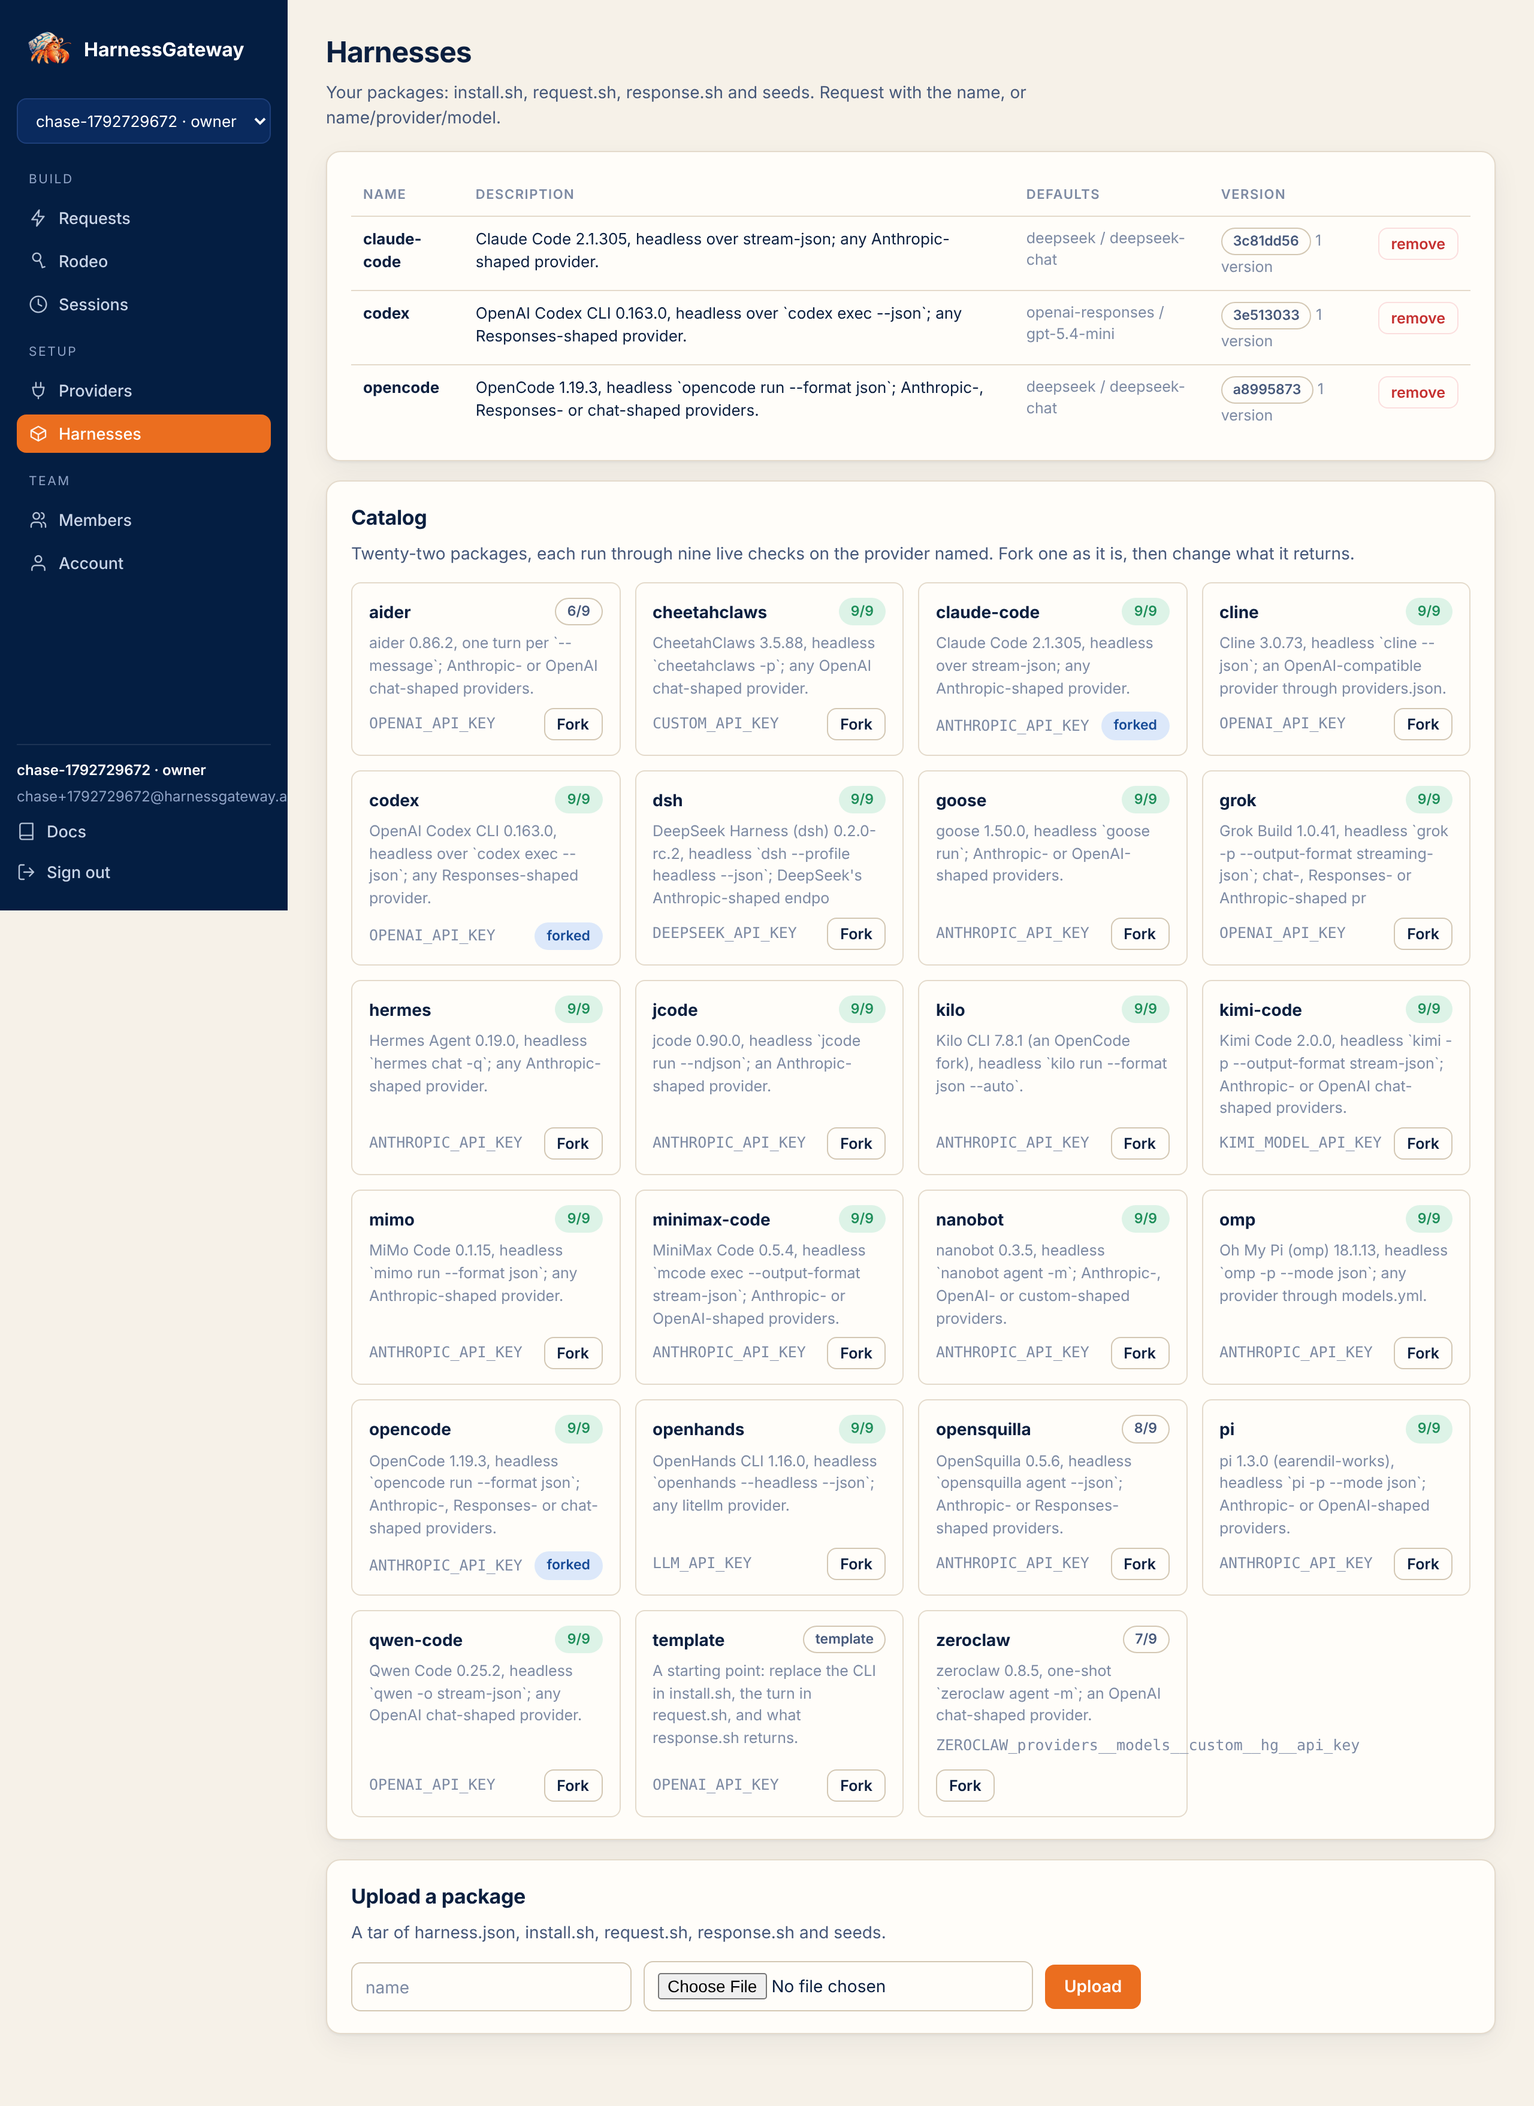
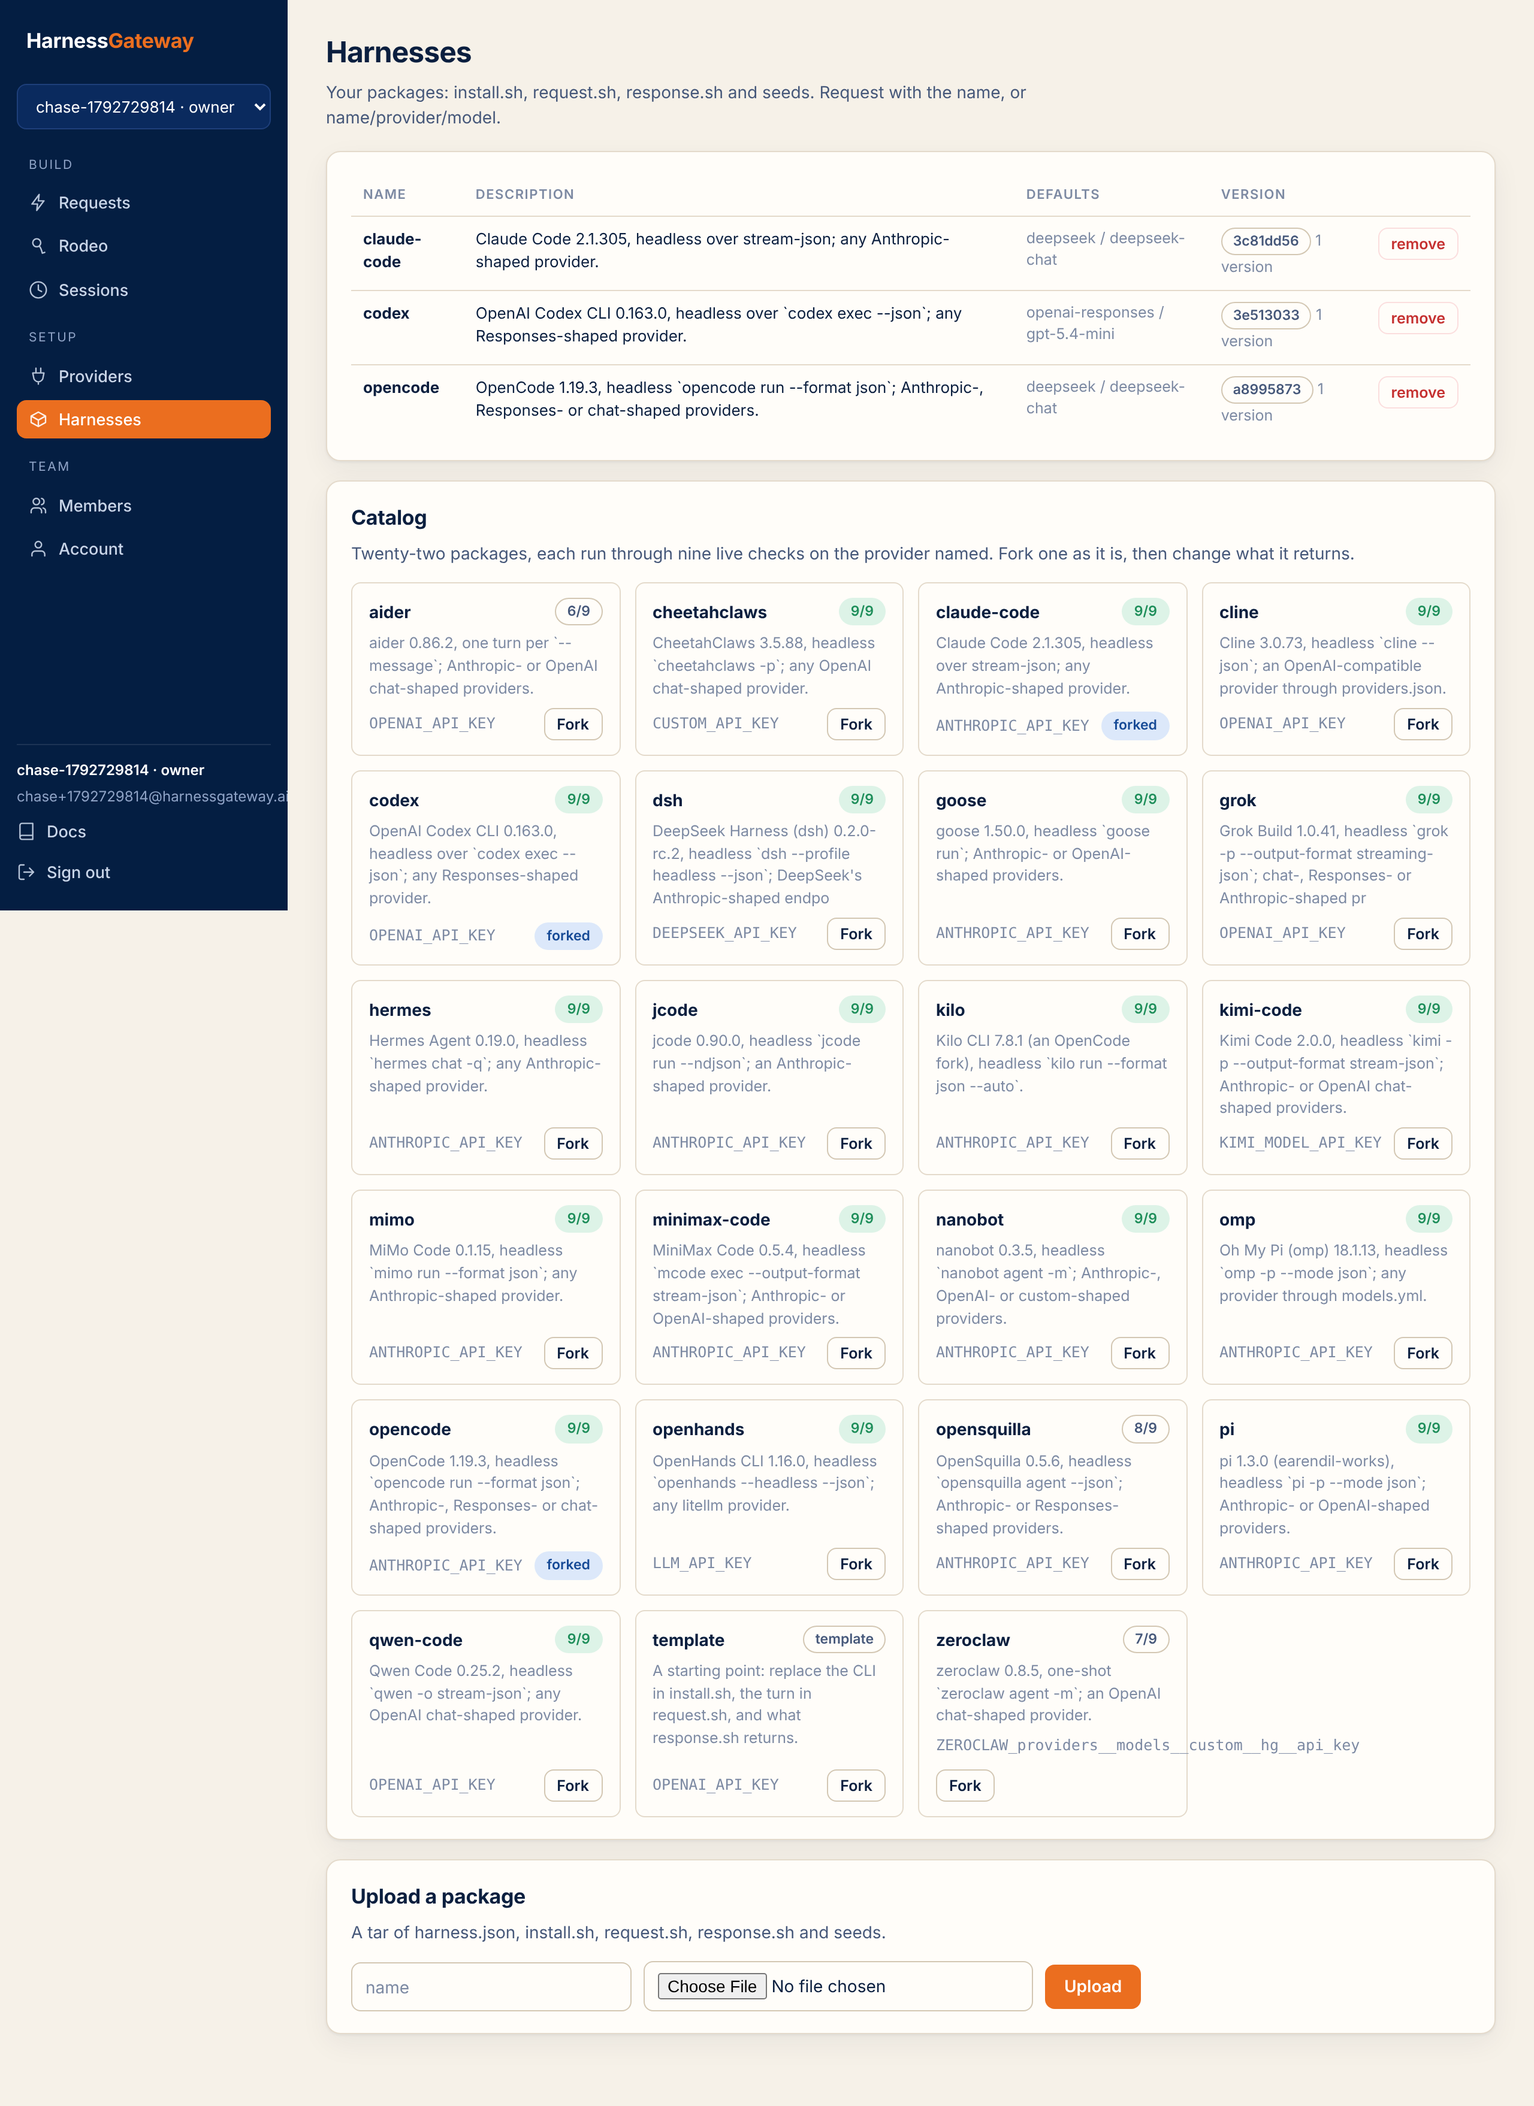
Picky rides in the rodeo; the name is a wordmark
The cowboy Picky on the Rodeo page, the home page's rodeo card and the
rodeo's documentation. The small mascot next to the name is gone: the name
is a wordmark, Harness in ink and Gateway in orange, in the app, on the
home page and in the docs header. Screenshots retaken.

Claude-Session: https://claude.ai/code/session_01ERRZXAJHGKJWMvAyf4LasW

Changed region(s): [[0.0, 0.0, 0.1875, 0.279], [0.0938, 0.372, 0.125, 0.403]]

diff --git a/web/app.js b/web/app.js
@@ -96,7 +96,7 @@ function login(note, mode = "signin", resetToken = "") {
   }
   $("#root").replaceChildren(h("div", { class: "auth" },
     h("div", { class: "side-art" },
-      h("a", { class: "brand", href: "/" }, h("img", { src: "/web/picky.png", alt: "" }), "HarnessGateway"),
+      h("a", { class: "brand", href: "/" }, h("span", { class: "wordmark" }, "Harness", h("em", {}, "Gateway"))),
       h("div", {}, h("h1", {}, "Every coding agent.", h("br"), "One API. ", h("em", {}, "Sandboxed.")), h("p", {}, "Bring your providers and your harness packages. The platform runs each turn in a sandbox it owns, relays the provider calls through a gateway that holds the keys, and keeps the complete record."), h("img", { class: "mascot", src: "/web/picky.png", alt: "" })),
       h("div", { class: "muted", style: "color:#8FA3C6" }, state.health.signup === "open" ? "harnessgateway.ai" : "self-hosted", " · v", state.health.version, " · ", h("a", { href: "/docs/", style: "color:#B7C6E0" }, "Docs"))),
     h("div", { class: "form" }, h("div", {}, note, ...body, out))));
@@ -117,10 +117,10 @@ function shell(page) {
   const item = (p, ic) => h("button", { class: "item" + (p === state.page ? " on" : ""), on: { click: () => shell(p) } }, icon(ic), p);
   const switcher = state.account ? h("div", { class: "tenant" }, h("select", { on: { change: async (e) => { if (e.target.value === "+") { e.target.value = state.me.tenant; return shell("Account"); } try { const me = await api("POST", "/auth/switch", { tenant: e.target.value }); state.tenants = me.tenants; state.me = { ...me.current, name: me.current.member }; state.kind = me.current.role; shell(state.page); } catch (err) { alert(err.message); } } } },
     ...state.tenants.map(t => h("option", { value: t.tenant, selected: t.tenant === state.me.tenant }, `${t.tenant} · ${t.role}`)), h("option", { value: "+" }, "+ new tenant"))) : null;
-  const side = h("aside", { class: "side" }, h("a", { class: "brand", href: "/" }, h("img", { src: "/web/picky.png", alt: "" }), "HarnessGateway"), switcher,
+  const side = h("aside", { class: "side" }, h("a", { class: "brand", href: "/" }, h("span", { class: "wordmark" }, "Harness", h("em", {}, "Gateway"))), switcher,
     ...groups.flatMap(([label, items]) => [h("div", { class: "group" }, label), ...items.filter(([p]) => all.includes(p)).map(([p, ic]) => item(p, ic))]),
     h("div", { class: "foot" }, h("b", {}, state.kind === "deployer" ? "deployer" : `${state.me.name} · ${state.kind}`), state.account ? h("span", {}, state.account.email) : h("span", {}, state.me.tenant || "the platform"), h("a", { class: "item", href: "/docs/", style: "padding:6px 0" }, icon("book"), "Docs"), h("button", { class: "item", style: "padding:6px 0", on: { click: signOut } }, icon("logout"), "Sign out")));
-  const top = h("div", { class: "topbar" }, h("img", { src: "/web/picky.png", alt: "" }), h("b", {}, "HarnessGateway"), ...all.map(p => h("button", { class: p === state.page ? "on" : "", on: { click: () => shell(p) } }, p)), h("button", { on: { click: signOut } }, "Sign out"));
+  const top = h("div", { class: "topbar" }, h("b", {}, h("span", { class: "wordmark" }, "Harness", h("em", {}, "Gateway"))), ...all.map(p => h("button", { class: p === state.page ? "on" : "", on: { click: () => shell(p) } }, p)), h("button", { on: { click: signOut } }, "Sign out"));
   const main = h("main", { class: "page" }, h("div", { class: "empty" }, "loading…"));
   $("#root").replaceChildren(h("div", { class: "shell" }, side, h("div", {}, top, main)));
   VIEWS[state.page]().then(el => main.replaceChildren(el)).catch(e => main.replaceChildren(h("div", { class: "card" }, fail(e))));
@@ -228,7 +228,7 @@ async function rodeo() {
     runBtn.disabled = false;
   };
   const rows = board.data.map(a => h("tr", {}, h("td", {}, when(a.created)), h("td", { class: "mono", style: "max-width:220px;white-space:nowrap;overflow:hidden;text-overflow:ellipsis", title: a.prompt }, a.prompt.slice(0, 80)), h("td", {}, a.entries.map(e => e.harness).join(", ")), h("td", {}, a.winner ? tag(a.winner, "orange") : h("span", { class: "muted" }, "undecided")), h("td", {}, h("button", { class: "ghost small danger", on: { click: async () => { await api("DELETE", `/v1/rodeos/${a.id}`); shell("Rodeo"); } } }, "delete"))));
-  return h("div", {}, head("Rodeo", "One task, several harnesses, out of the chute side by side. Pick the winner; the leaderboard remembers."),
+  return h("div", {}, head("Rodeo", "One task, several harnesses, out of the chute side by side. Pick the winner; the leaderboard remembers.", h("img", { class: "rodeo-mascot", src: "/web/picky-rodeo.png", alt: "Picky in a cowboy hat and bandana" })),
     h("div", { class: "card" }, h("h3", { style: "margin-top:0" }, "harnesses"), picks, h("div", { style: "margin-top:12px" }, field("Task", input)), h("div", { class: "row between", style: "margin-top:10px" }, h("span", { class: "muted" }, "each harness runs in its own session; every one is a normal request"), runBtn), out),
     h("div", { id: "rodeo-run", style: "margin-top:16px" }, cols, verdict),
     h("div", { class: "grid-2", style: "margin-top:16px" },

diff --git a/web/style.css b/web/style.css
@@ -15,6 +15,9 @@ html { background:var(--bg); }
 body { margin:0; font:14px/1.5 var(--sans); color:var(--fg); background:var(--bg); min-height:100vh; -webkit-font-smoothing:antialiased; }
 a { color:var(--blue); text-decoration:none; } a:hover { color:var(--blue-2); text-decoration:underline; }
 h1, h2, h3, h4 { margin:0; letter-spacing:-.01em; text-wrap:balance; }
+.wordmark { font-weight:700; letter-spacing:-.01em; white-space:nowrap; } .wordmark em { font-style:normal; color:var(--orange); }
+.rodeo-mascot { width:112px; height:112px; filter:drop-shadow(0 10px 20px rgba(4,30,66,.18)); }
+.rodeo-feature { position:relative; padding-right:120px; } .rodeo-feature img { position:absolute; right:10px; top:10px; width:96px; height:96px; }
 h2 { font-size:17px; font-weight:650; } h3 { font-size:12px; font-weight:650; color:var(--muted); text-transform:uppercase; letter-spacing:.08em; margin:18px 0 8px; }
 p { margin:0 0 10px; } p.lead { font-size:17px; color:var(--dim); line-height:1.55; }
 code, kbd { font-family:var(--mono); font-size:.92em; background:var(--surface-2); border:1px solid var(--line); border-radius:5px; padding:1px 5px; }
@@ -66,7 +69,7 @@ th { color:var(--muted); font-weight:600; font-size:11px; text-transform:upperca
 /* the app shell: a sidebar and a page */
 .shell { display:grid; grid-template-columns:240px 1fr; min-height:100vh; }
 .side { background:var(--navy); color:#DCE5F3; padding:18px 14px; display:flex; flex-direction:column; gap:4px; position:sticky; top:0; height:100vh; overflow:auto; }
-.side .brand { display:flex; align-items:center; gap:10px; padding:4px 8px 14px; color:#fff; font-weight:700; font-size:16px; text-decoration:none; } .side .brand img { width:38px; height:38px; }
+.side .brand { display:flex; align-items:center; gap:10px; padding:4px 8px 14px; color:#fff; font-weight:700; font-size:17px; text-decoration:none; }
 .side .group { font-size:10.5px; text-transform:uppercase; letter-spacing:.12em; color:#8FA3C6; padding:12px 10px 4px; }
 .side a.item, .side button.item { display:flex; align-items:center; gap:9px; width:100%; text-align:left; background:none; border:0; color:#C9D5E8; padding:8px 10px; border-radius:8px; font-weight:500; font-size:13.5px; }
 .side .item:hover { background:rgba(255,255,255,.07); color:#fff; text-decoration:none; } .side .item.on { background:var(--orange); color:#fff; }
@@ -81,7 +84,7 @@ th { color:var(--muted); font-weight:600; font-size:11px; text-transform:upperca
 @media (max-width:900px) {
   .shell { grid-template-columns:1fr; } .side { display:none; }
   .topbar { display:flex; align-items:center; gap:10px; padding:10px 16px; background:var(--navy); color:#fff; position:sticky; top:0; z-index:5; overflow-x:auto; }
-  .topbar img { width:28px; height:28px; } .topbar b { white-space:nowrap; }
+  .topbar b { white-space:nowrap; }
   .topbar button { background:none; border:0; color:#C9D5E8; padding:6px 8px; white-space:nowrap; font-weight:500; } .topbar button.on { color:var(--orange); }
   .page { padding:18px 16px 40px; }
 }
@@ -89,7 +92,7 @@ th { color:var(--muted); font-weight:600; font-size:11px; text-transform:upperca
 /* sign in */
 .auth { min-height:100vh; display:grid; grid-template-columns:1.1fr 1fr; }
 .auth .side-art { background:var(--navy); color:#DCE5F3; padding:48px; display:flex; flex-direction:column; justify-content:space-between; }
-.auth .side-art .brand { display:flex; align-items:center; gap:12px; color:#fff; font-weight:700; font-size:18px; text-decoration:none; } .auth .side-art .brand img { width:44px; height:44px; }
+.auth .side-art .brand { display:flex; align-items:center; gap:12px; color:#fff; font-weight:700; font-size:20px; text-decoration:none; }
 .auth .side-art h1 { color:#fff; font-size:34px; line-height:1.1; margin:0 0 14px; } .auth .side-art h1 em { color:var(--orange); font-style:normal; }
 .auth .side-art p { max-width:460px; color:#B7C6E0; font-size:15px; }
 .auth .side-art img.mascot { width:220px; margin-top:24px; filter:drop-shadow(0 20px 40px rgba(0,0,0,.35)); }
@@ -127,7 +130,7 @@ th { color:var(--muted); font-weight:600; font-size:11px; text-transform:upperca
 
 /* the home page */
 .site header { display:flex; align-items:center; gap:18px; padding:14px 28px; max-width:1180px; margin:0 auto; }
-.site header .brand { display:flex; align-items:center; gap:10px; color:var(--navy); font-weight:700; font-size:17px; text-decoration:none; } .site header .brand img { width:36px; height:36px; }
+.site header .brand { display:flex; align-items:center; gap:10px; color:var(--navy); font-weight:700; font-size:19px; text-decoration:none; }
 .site header nav { display:flex; gap:18px; margin-left:12px; } .site header nav a { color:var(--dim); font-weight:500; } .site header nav a:hover { color:var(--navy); text-decoration:none; }
 .site header .cta { margin-left:auto; display:flex; gap:8px; }
 .hero { max-width:1180px; margin:0 auto; padding:56px 28px 36px; display:grid; grid-template-columns:1.15fr .85fr; gap:36px; align-items:center; }

diff --git a/web/index.html b/web/index.html
@@ -12,7 +12,7 @@
 </head>
 <body class="site">
 <header>
-  <a class="brand" href="/"><img src="/web/picky.png" alt="">HarnessGateway</a>
+  <a class="brand" href="/"><span class="wordmark">Harness<em>Gateway</em></span></a>
   <nav><a href="#how">How it works</a><a href="#harnesses">Harnesses</a><a href="#rodeo">Rodeo</a><a href="#deploy">Deploy</a><a href="#editions">Editions</a><a href="/docs/">Docs</a></nav>
   <div class="cta"><a class="quiet btn" href="/app">Sign in</a><a class="act btn" href="/app#signup" id="start">Get started</a></div>
 </header>
@@ -65,7 +65,7 @@ print(r.status, r.output_text)</div>
   <div class="grid-3">
     <div class="feature"><b>Sandboxed by construction</b><p>A fresh container per turn, no capabilities, a read-only root, the tenant's own uid and ceilings, and a door that tunnels only to the hosts the package names.</p></div>
     <div class="feature"><b>The workspace, in the app</b><p>Every turn ends with a snapshot. Browse the files the agent made, read them in place, download the archive, continue the session.</p></div>
-    <div class="feature"><b>The rodeo</b><p>One task, several harnesses, out of the chute side by side. Pick the winner. The leaderboard remembers which harness earns your work.</p></div>
+    <div class="feature rodeo-feature"><img src="/web/picky-rodeo.png" alt="Picky in a cowboy hat and bandana"><b>The rodeo</b><p>One task, several harnesses, out of the chute side by side. Pick the winner. The leaderboard remembers which harness earns your work.</p></div>
     <div class="feature"><b>The complete record</b><p>Every request, steer, cancel and response in the trace; every provider exchange captured; usage metered per turn.</p></div>
     <div class="feature"><b>Your team</b><p>Accounts with email, GitHub or Google sign-in. Owners invite members by email, mint keys per place a key is used, and revoke the one that leaks.</p></div>
     <div class="feature"><b>Hosted or yours</b><p>One image, four roles. Records in SQLite or Postgres, blobs in a directory or any S3 store, no cloud SDK anywhere else. The same code is harnessgateway.ai and your own box.</p></div>
@@ -94,7 +94,7 @@ docker logs hg   <span class="c"># the deployer key, your tenant, your API key</
   </div>
 </section>
 
-<footer><b style="color:var(--navy)">HarnessGateway</b> · Apache 2.0 · <a href="/docs/">Docs</a> · <a href="/reference">API reference</a> · <a href="https://github.com/mrcloudchase/harnessgatewayai">Source</a> · <span id="edition"></span></footer>
+<footer><b class="wordmark" style="color:var(--navy)">Harness<em>Gateway</em></b> · Apache 2.0 · <a href="/docs/">Docs</a> · <a href="/reference">API reference</a> · <a href="https://github.com/mrcloudchase/harnessgatewayai">Source</a> · <span id="edition"></span></footer>
 <script>
   fetch("/healthz").then(r => r.json()).then(h => {
     document.getElementById("edition").textContent = (h.signup === "open" ? "cloud" : "self-hosted") + " · v" + h.version;

diff --git a/docs/assets/extra.css b/docs/assets/extra.css
@@ -20,7 +20,6 @@
   --md-text-font: "Inter";
 }
 .md-header, .md-tabs { background-color: #041E42; }
-.md-header__button.md-logo img { height: 1.8rem; width: 1.8rem; }
 .md-search__form { background-color: rgba(255,255,255,.1); }
 .md-typeset h1, .md-typeset h2 { color: #041E42; font-weight: 700; letter-spacing: -.01em; }
 .md-typeset h2 { border-bottom: 1px solid #E4DACB; padding-bottom: .2em; }

diff --git a/CHANGELOG.md b/CHANGELOG.md
@@ -6,8 +6,10 @@ the wheel and the image, and publishes the section as its notes.
 
 ## [6.1.1]
 
-- **Picky, updated.** The newest portrait, everywhere, and no square behind it on the navy: the
-  app's sidebar, the sign-in page and the documentation's header show the crab alone.
+- **Picky, updated.** The newest portrait on the home page and the sign-in page, and the small
+  one next to the name is gone: the name is a wordmark, Harness in ink and Gateway in orange.
+- **Picky rides in the rodeo.** A cowboy hat and a bandana on the Rodeo page, the home page's
+  rodeo card and the rodeo's documentation.
 
 ## [6.1.0]
 

diff --git a/docs/rodeo.md b/docs/rodeo.md
@@ -1,5 +1,9 @@
 # Rodeo
 
+<figure class="shot" markdown>
+![Picky in a cowboy hat and bandana](assets/picky-rodeo.png){ width="180" }
+</figure>
+
 One task, several harnesses, out of the chute side by side. Each entry is an ordinary request in a
 session of its own; the rodeo records which harnesses ran the task and which one you picked.
 
